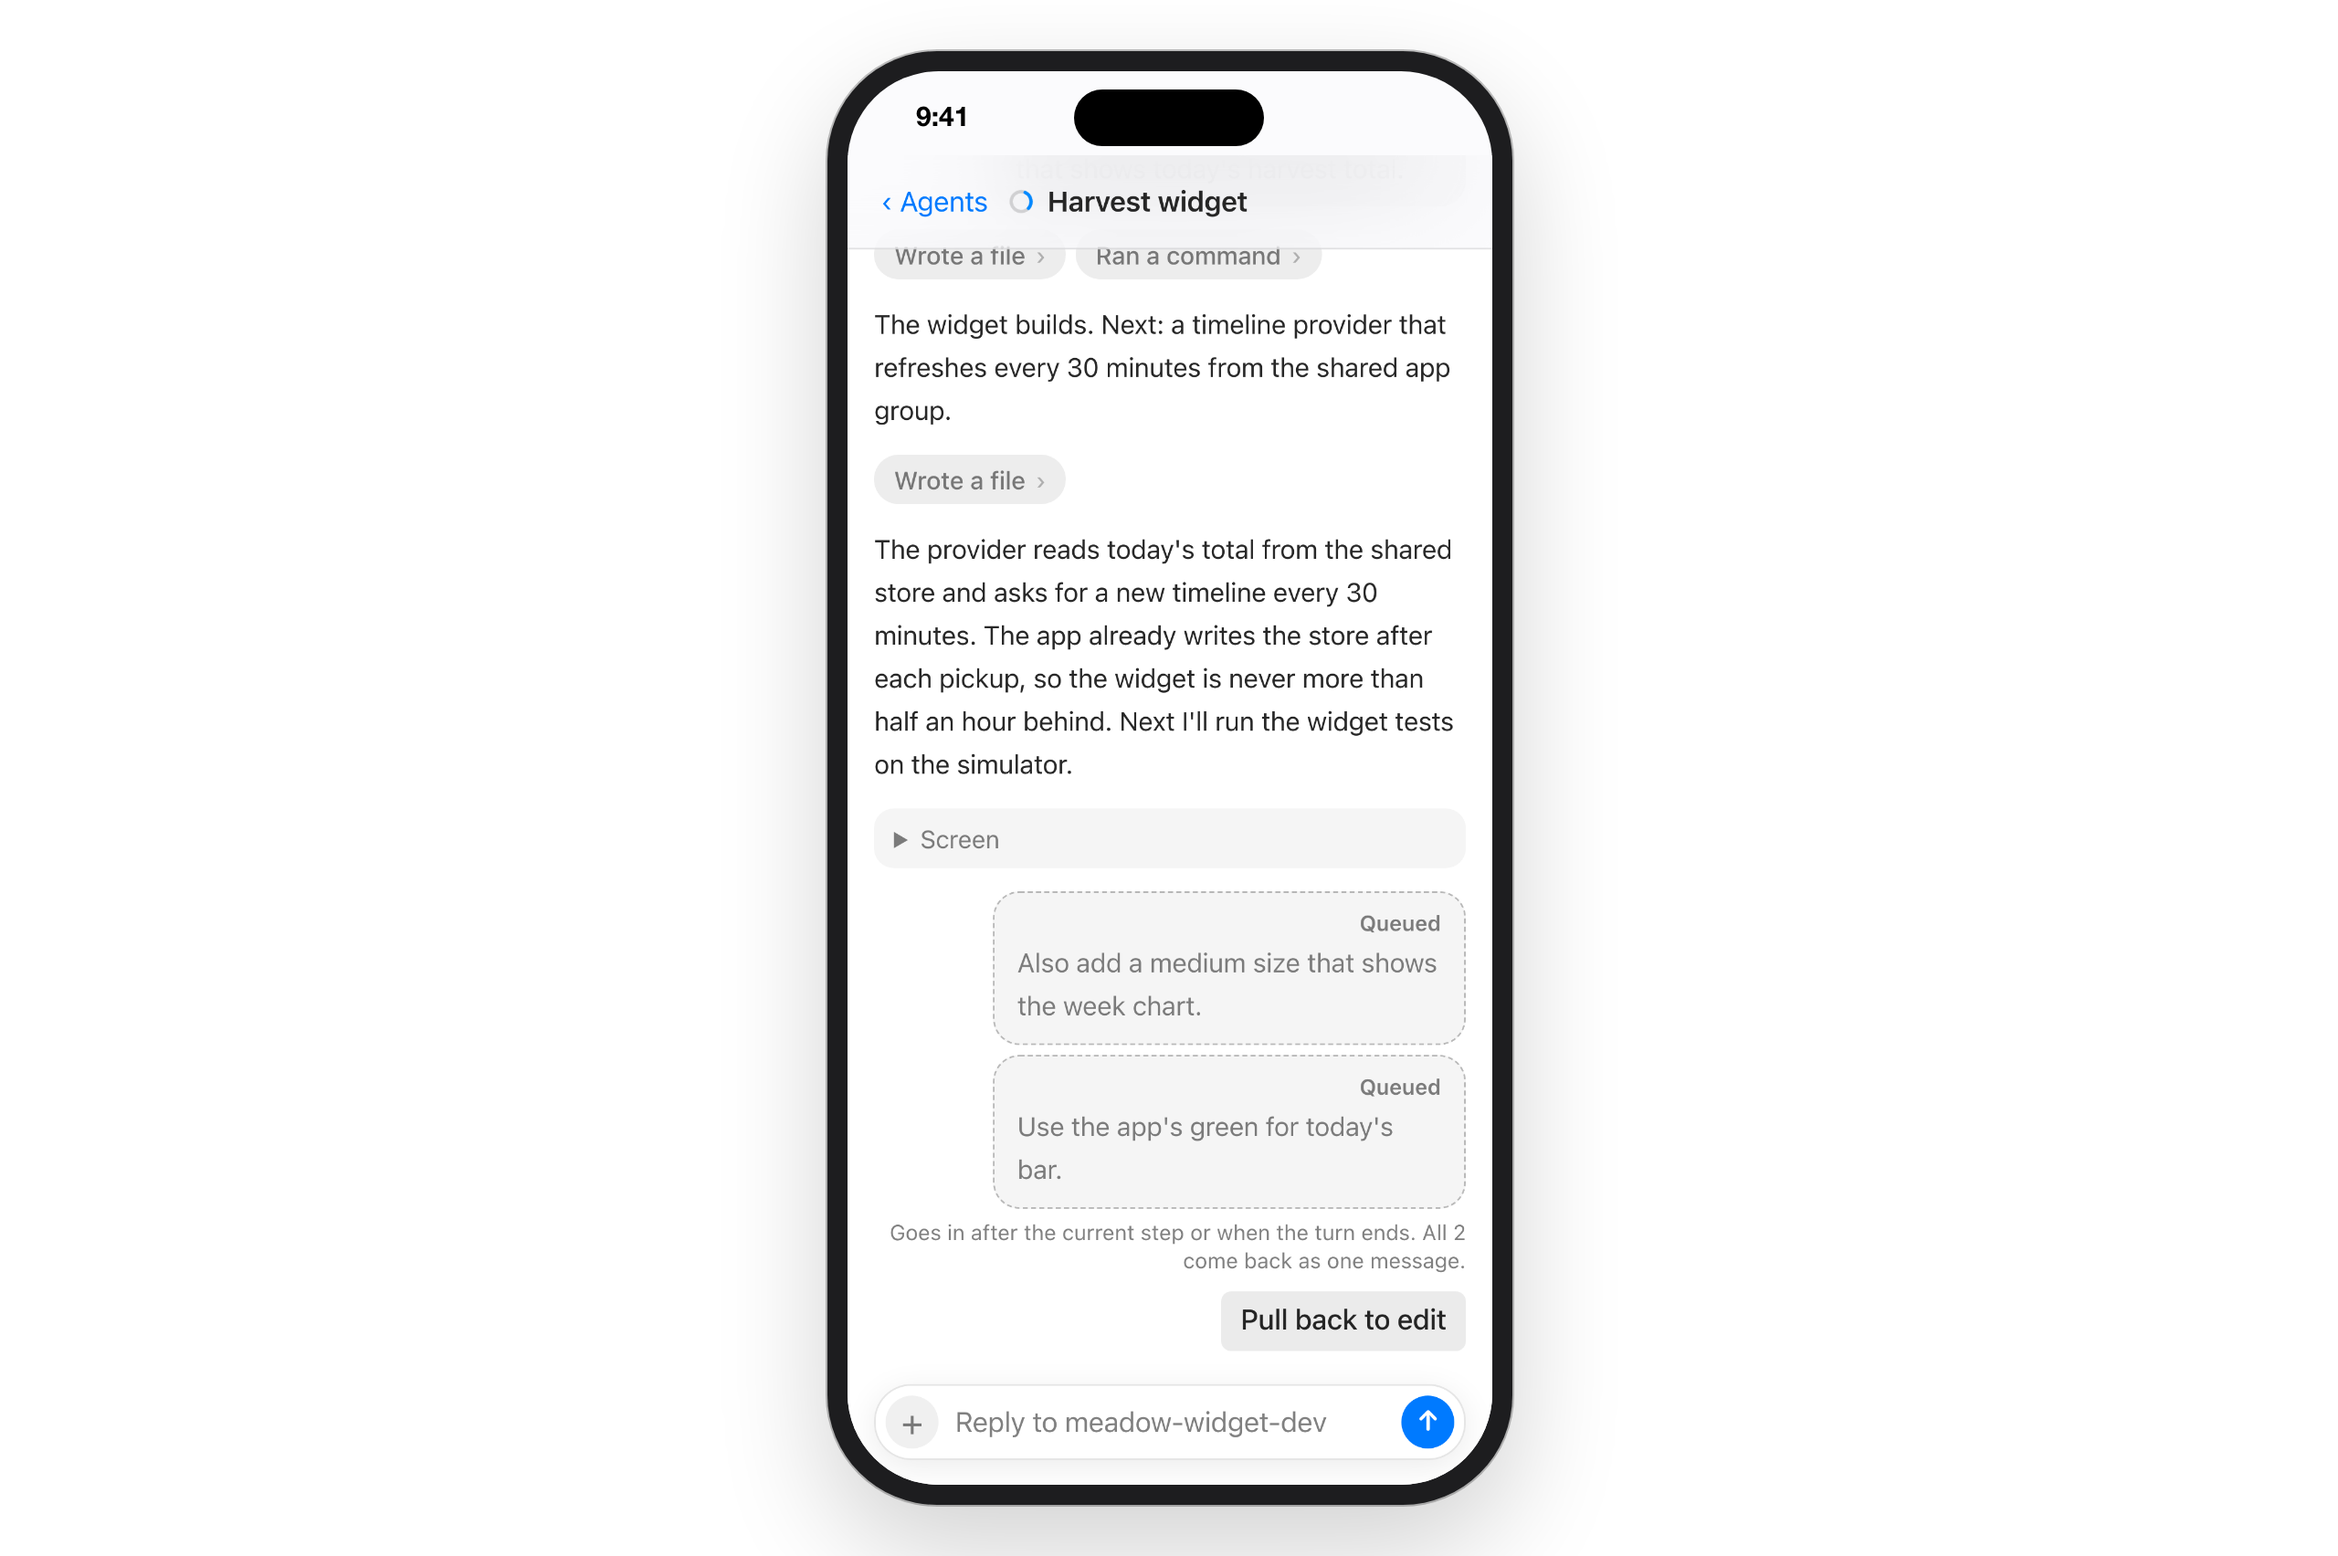
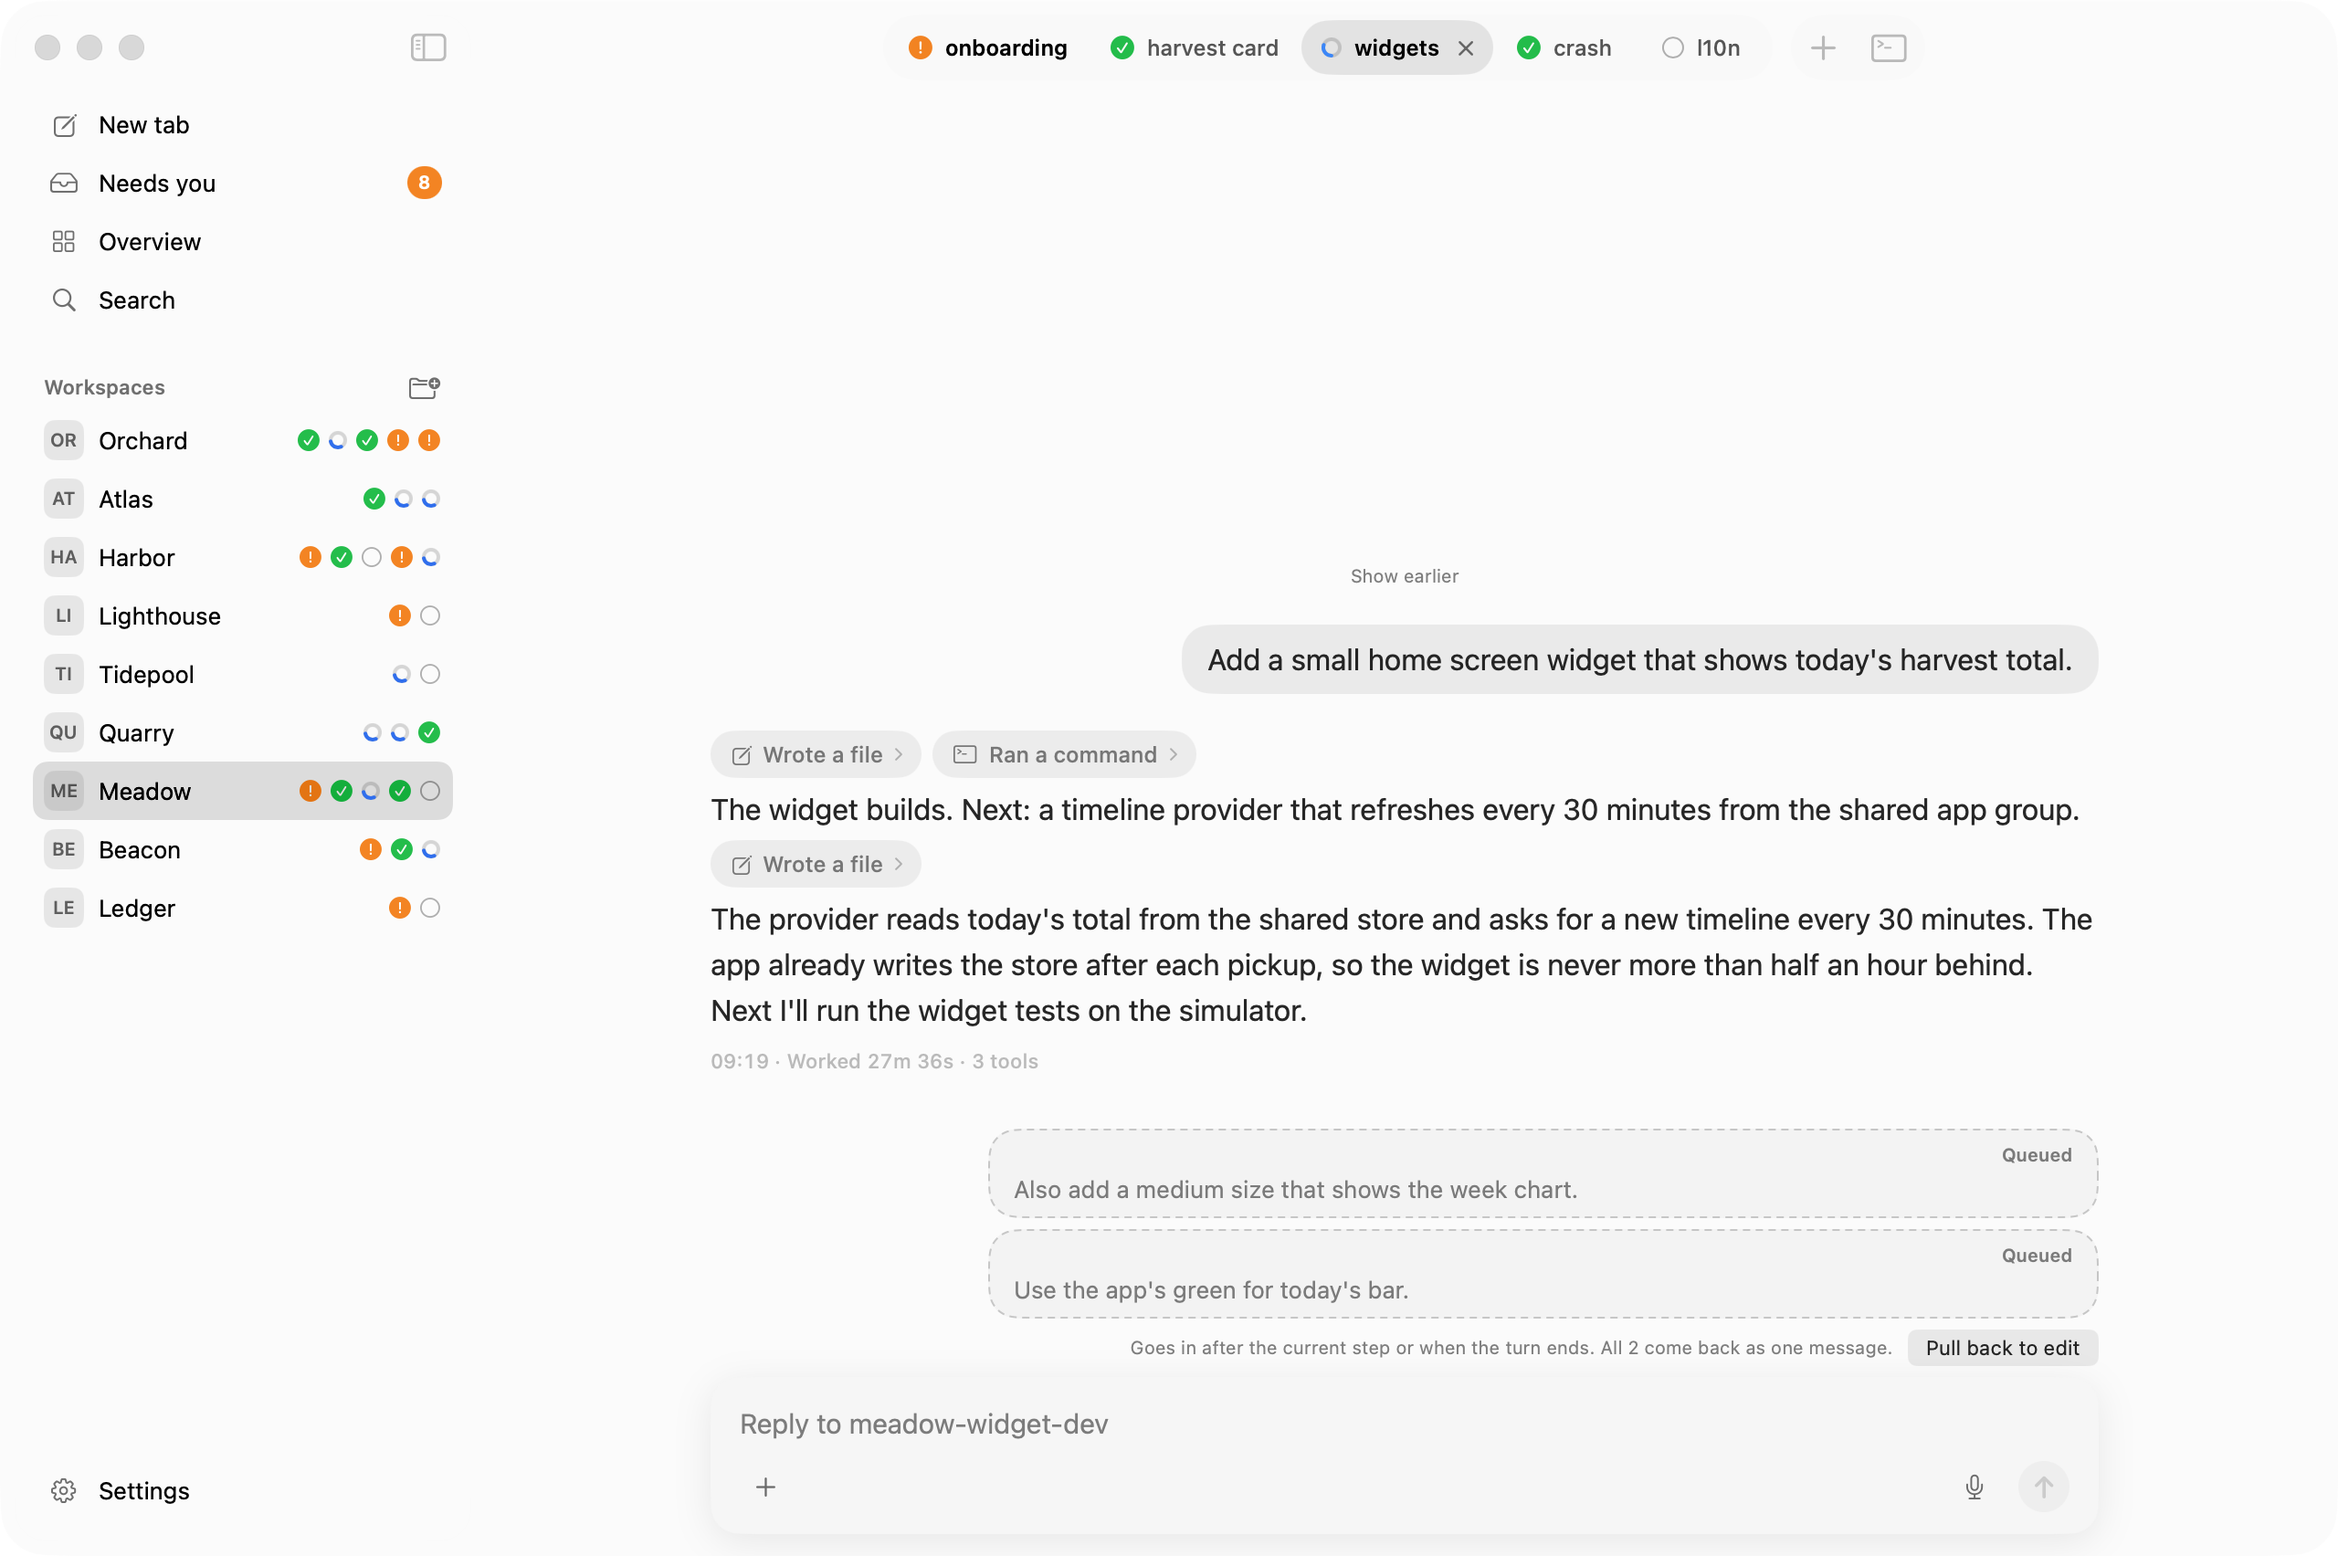
Queued messages: the Mac still, now that the queue strip keeps its height
The demo stills take Claude Code's two queued messages above the reply field
(light and dark) and the queued card uses them. The phone frames no longer
write queued-*.png.

Claude-Session: https://claude.ai/code/session_01VoeBGcczPnVqJsC1AMi8vz

diff --git a/Sources/HerdrDesk/SnapshotMode+Demo.swift b/Sources/HerdrDesk/SnapshotMode+Demo.swift
@@ -177,6 +177,13 @@ extension SnapshotRunner {
         await clearIsland("pictures")
         save("pictures")
 
+        // 10. Queued: Claude Code's messages waiting for its turn to end, above the reply field.
+        let widget = open("Meadow", "widgets")
+        let queued = await wait(6) { (widget?.panes.first).map { (model.queued[$0.id]?.items.count ?? 0) >= 2 } ?? false }
+        step("queued: \((widget?.panes.first).flatMap { model.queued[$0.id]?.items.count } ?? 0) messages (want 2)", queued)
+        await clearIsland("queued")
+        save("queued")
+
         print("snapshot-demo: \(String(format: "%.1f", Date().timeIntervalSince(t0))) s")
         finish()
     }

diff --git a/site/src/lib/content.js b/site/src/lib/content.js
@@ -48,7 +48,7 @@ export const features = [
 		title: 'See what is queued',
 		body: 'Messages you send while an agent works stay above the reply field until the agent takes them, and you can pull Claude Code’s queue back to edit it.',
 		image: 'queued',
-		alt: 'A phone showing two queued messages above the reply field while the agent works.'
+		alt: 'Two queued messages above the reply field while the agent works, with Pull back to edit.'
 	},
 	{
 		id: 'phone',

diff --git a/README.md b/README.md
@@ -56,7 +56,7 @@ Messages you send while an agent works wait in the agent's queue. Flockbook show
 
 <picture>
   <source media="(prefers-color-scheme: dark)" srcset="docs/media/queued-dark.png">
-  <img src="docs/media/queued-light.png" alt="Queued messages on the phone" width="800">
+  <img src="docs/media/queued-light.png" alt="Two queued messages above the reply field, with Pull back to edit" width="800">
 </picture>
 
 ### Question card
